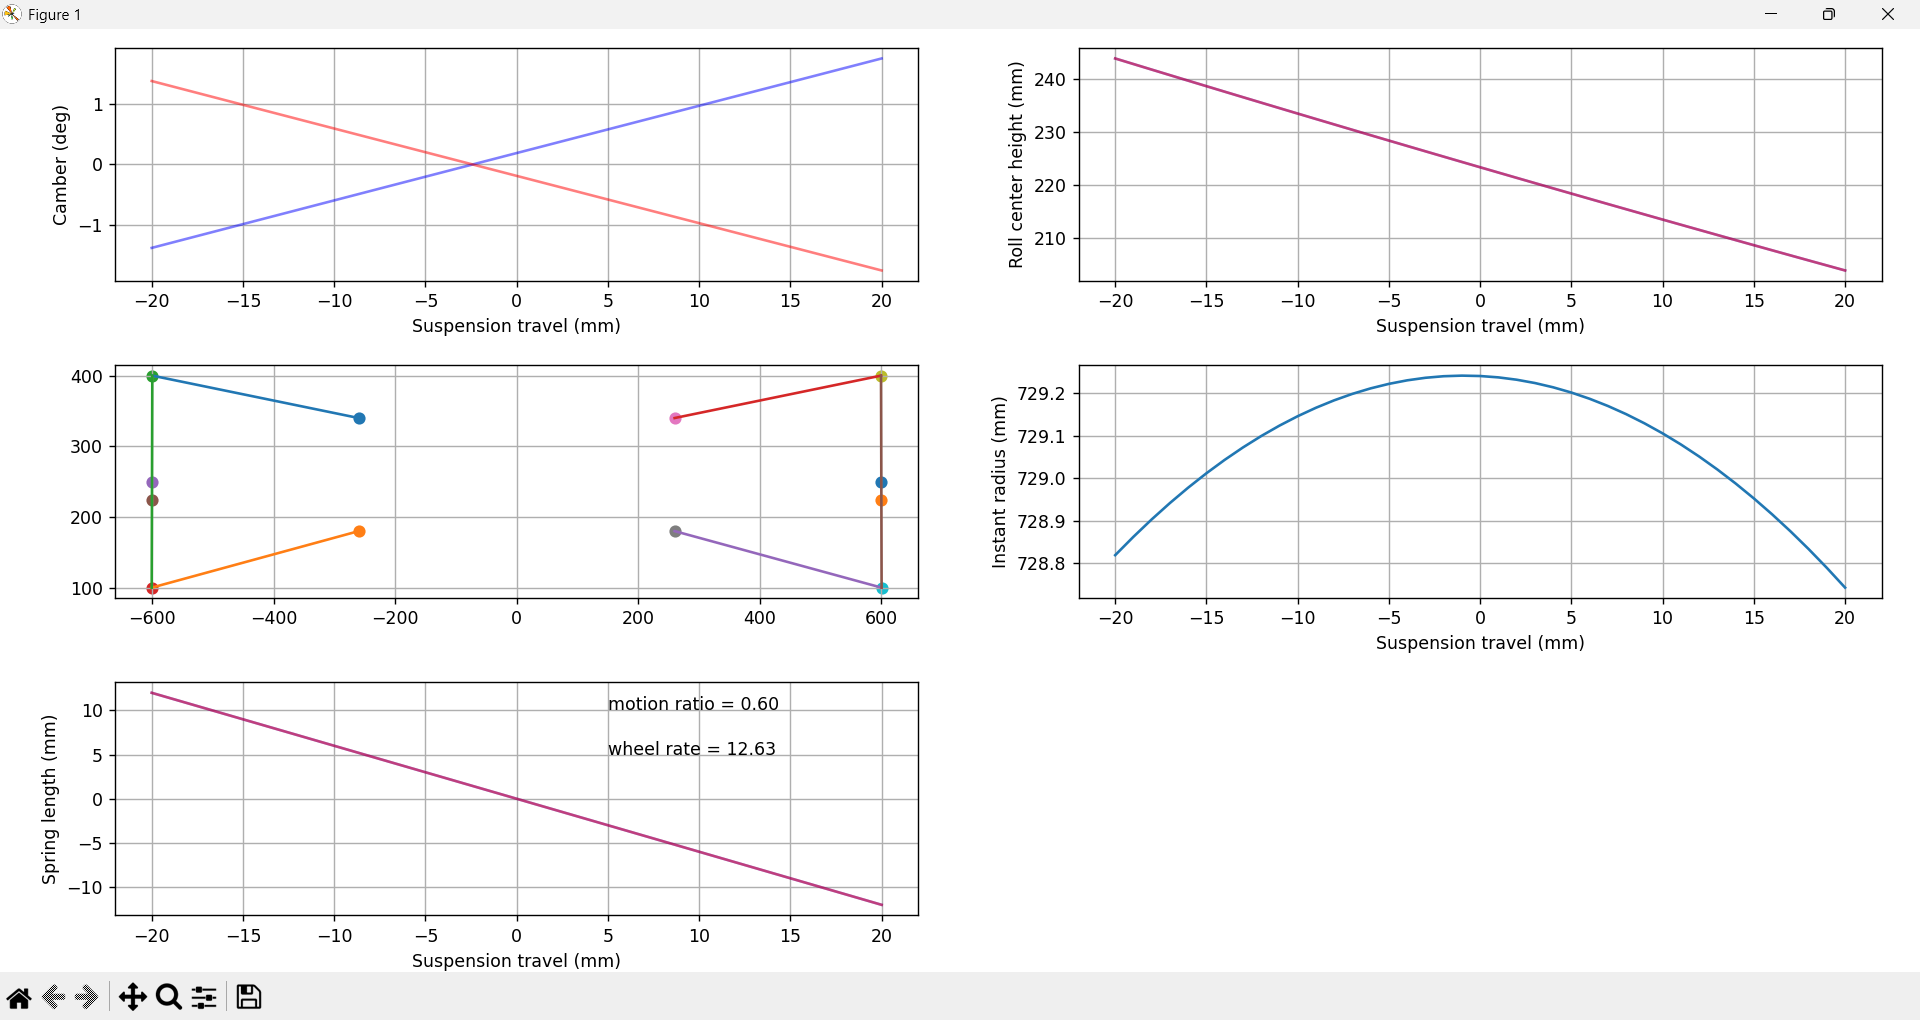
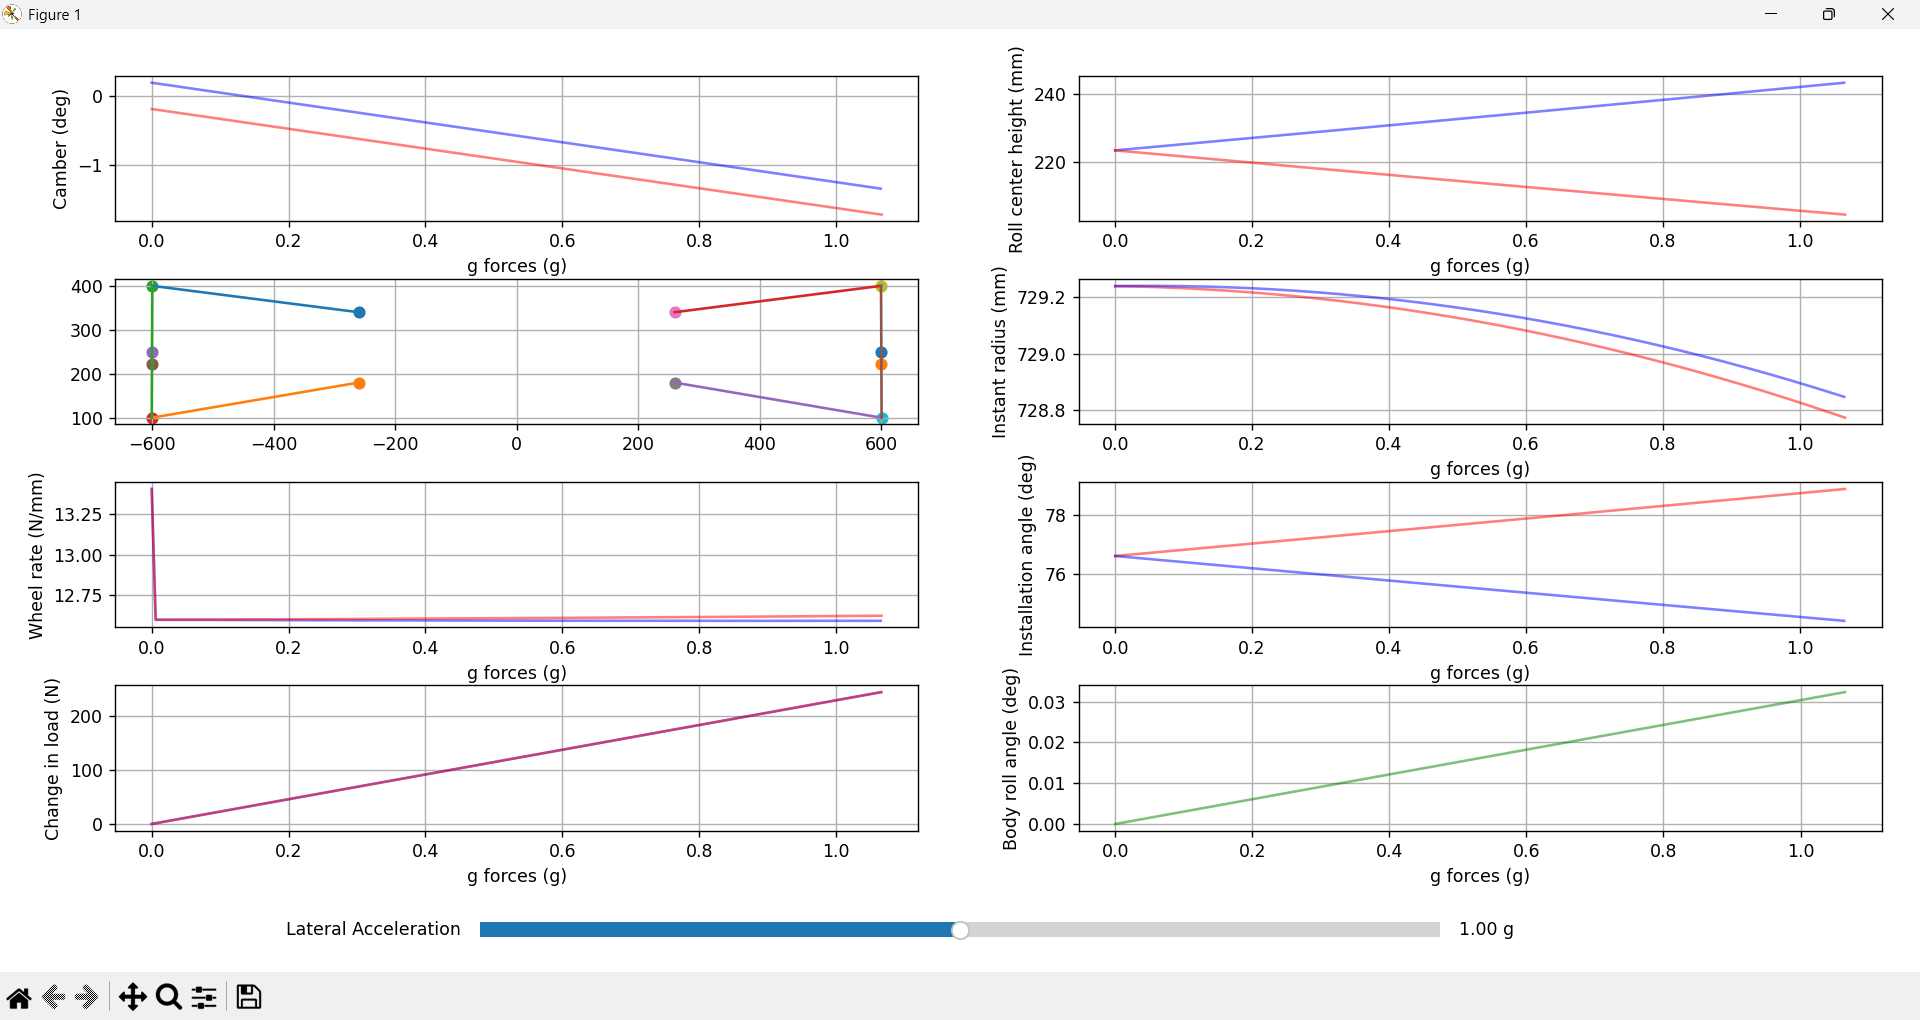
Added a slider for lateral acceleration values to facilitate real time parameter updates

diff --git a/main.py b/main.py
@@ -6,6 +6,7 @@ from pyparsing import results
 from scipy.optimize import least_squares
 import math
 from dataclasses import dataclass, field
+from matplotlib.widgets import Slider
 
 @dataclass
 class car:
@@ -20,12 +21,13 @@ class car:
     length_lower: float
     length_upright: float
     spring_stiffness: float
-    sway_bar_stiffness: float
     mount_fraction: float
     shock_mount_upper_R: tuple[float, float]
     shock_mount_upper_L: tuple[float, float] = field(init=False)
     upper_inner_L: tuple[float, float] = field(init=False)
     lower_inner_L: tuple[float, float] = field(init=False)
+    bump_stop_gap: float
+    bump_stop_stiffness: float
 
     #all units otherwise mentioned are in mm
     def __post_init__(self):
@@ -132,11 +134,13 @@ def simulate(car, a):
     instant_loads_R = []
     instant_loads_L = []
 
-    cornering_acceleration = a * 9.18
+    cornering_acceleration = a * 9.81
     lateral_force = car.front_sprung_mass * cornering_acceleration
     load_transferred = (lateral_force * car.CG_height)/car.track_width
     print(load_transferred)
 
+    current_stiffness_L = car.spring_stiffness
+    current_stiffness_R = car.spring_stiffness
     target_load = load_transferred
     current_load_R = 0
     current_load_L = 0
@@ -190,6 +194,10 @@ def simulate(car, a):
             motion_ratio = (distance(car.shock_mount_upper_R, static_shock_mount_R)/distance(car.shock_mount_upper_R, lower_outer_R))*np.sin(installation_angle)
         else:
             motion_ratio = (distance(car.shock_mount_upper_R, shock_mount_lower_R) - static_spring_R)/dy_R
+
+        shock_compression =  static_spring_R - distance(car.shock_mount_upper_R, shock_mount_lower_R)
+        if shock_compression > car.bump_stop_gap:
+            current_stiffness_R += car.bump_stop_stiffness
 
         wheel_rate = car.spring_stiffness * (motion_ratio**2)
         wheel_rates_R.append(wheel_rate)
@@ -247,6 +255,13 @@ def simulate(car, a):
         else:
             motion_ratio = (distance(car.shock_mount_upper_L, shock_mount_lower_L) - static_spring_L) / dy_L
 
+        shock_compression =  static_spring_L - distance(car.shock_mount_upper_L, shock_mount_lower_L)
+        if shock_compression > car.bump_stop_gap:
+            print("changed L")
+            current_stiffness_L += car.bump_stop_stiffness
+        elif current_stiffness_L > car.spring_stiffness:
+            current_stiffness_L = car.spring_stiffness
+
         wheel_rate = car.spring_stiffness * (motion_ratio ** 2)
         wheel_rates_L.append(wheel_rate)
         instant_loads_L.append(current_load_L)
@@ -277,108 +292,122 @@ def main():
         length_upright=300,
 
         spring_stiffness=35,
-        sway_bar_stiffness=15,
         mount_fraction=0.6,
-        shock_mount_upper_R=(464, 282)
+        shock_mount_upper_R=(464, 282),
+        bump_stop_gap = 20,
+        bump_stop_stiffness = 100
     )
-    results_R, results_L, statics, instant_radii, spring_lengths, installation_angles, wheel_rates, instant_loads, roll_angles, gforces = simulate(mycar, 1.0)
-    gforces_L, gforces_R = gforces
-    instant_loads_L, instant_loads_R = instant_loads
-    installation_angles_L, installation_angles_R = installation_angles
-    instant_radii_L, instant_radii_R = instant_radii
-    spring_lengths_L, spring_lengths_R = spring_lengths
-    dy_vals_R, camber_vals_R, rc_vals_R, sol_R = results_R
-    dy_vals_L, camber_vals_L, rc_vals_L, sol_L = results_L
-    static_L, static_R, static_rc_L, static_rc_R, static_spring_L, static_spring_R = statics
-    wheel_rates_L, wheel_rates_R = wheel_rates
-
-    print(len(dy_vals_R), len(dy_vals_L), dy_vals_R[-1], dy_vals_L[-1], dy_vals_R[0], dy_vals_L[0])
-    print(len(wheel_rates_R), len(wheel_rates_L), wheel_rates_R[-1], wheel_rates_L[-1], wheel_rates_R[0], wheel_rates_L[0])
-    print(instant_loads_L[-1], instant_loads_R[-1])
 
 
-    # Camber Curve
-    plt.subplot(4, 2, 1)
-    plt.plot(gforces_L, camber_vals_L, color="b", alpha = 0.5)
-    plt.plot(gforces_R, camber_vals_R, color="r", alpha = 0.5)
-    plt.text(10, 0, f"camber gain = {camber_vals_R[-1]/dy_vals_R[-1]:.2f}")
-    plt.xlabel("g forces (g)")
-    plt.ylabel("Camber (deg)")
-    plt.grid(True)
+    fig = plt.figure(figsize=(12, 8))
+    plt.subplots_adjust(left=0.06, bottom=0.15, right=0.98, top=0.95, wspace=0.2, hspace=0.4)
+
+    ax_slider = plt.axes([0.25, 0.03, 0.5, 0.03])
+    g_slider = Slider(ax_slider, 'Lateral Acceleration', 0, 2, valinit=1.0, valfmt='%1.2f g')
+
+    def update_dashboard(val):
+        for i in range(1, 9):
+            plt.subplot(4, 2, i)
+            plt.cla()
+
+        a = g_slider.val
+
+        results_R, results_L, statics, instant_radii, spring_lengths, installation_angles, wheel_rates, instant_loads, roll_angles, gforces = simulate(
+            mycar, a)
+        gforces_L, gforces_R = gforces
+        instant_loads_L, instant_loads_R = instant_loads
+        installation_angles_L, installation_angles_R = installation_angles
+        instant_radii_L, instant_radii_R = instant_radii
+        spring_lengths_L, spring_lengths_R = spring_lengths
+        dy_vals_R, camber_vals_R, rc_vals_R, sol_R = results_R
+        dy_vals_L, camber_vals_L, rc_vals_L, sol_L = results_L
+        static_L, static_R, static_rc_L, static_rc_R, static_spring_L, static_spring_R = statics
+        wheel_rates_L, wheel_rates_R = wheel_rates
+
+        # Camber Curve
+        plt.subplot(4, 2, 1)
+        plt.plot(gforces_L, camber_vals_L, color="b", alpha = 0.5)
+        plt.plot(gforces_R, camber_vals_R, color="r", alpha = 0.5)
+        plt.text(10, 0, f"camber gain = {camber_vals_R[-1]/dy_vals_R[-1]:.2f}")
+        plt.xlabel("g forces (g)")
+        plt.ylabel("Camber (deg)")
+        plt.grid(True)
 
 
-    # Roll Center Curve
-    plt.subplot(4, 2, 2)
-    plt.plot(gforces_L, rc_vals_L, color="b", alpha = 0.5)
-    plt.plot(gforces_R, rc_vals_R, color="r", alpha = 0.5)
-    plt.xlabel("g forces (g)")
-    plt.ylabel("Roll center height (mm)")
-    plt.grid(True)
+        # Roll Center Curve
+        plt.subplot(4, 2, 2)
+        plt.plot(gforces_L, rc_vals_L, color="b", alpha = 0.5)
+        plt.plot(gforces_R, rc_vals_R, color="r", alpha = 0.5)
+        plt.xlabel("g forces (g)")
+        plt.ylabel("Roll center height (mm)")
+        plt.grid(True)
 
 
-    #Visual representation of final suspension state
-    plt.subplot(4, 2, 3)
-    # Left side
-    plt.scatter(mycar.upper_inner_L[0], mycar.upper_inner_L[1], label="upper inner")
-    plt.scatter(mycar.lower_inner_L[0], mycar.lower_inner_L[1], label="lower inner")
-    plt.scatter(static_L[0], static_L[1], label="upper outer")
-    plt.scatter(static_L[2], static_L[3], label="lower outer")
-    plt.scatter((static_L[0] + static_L[2]) / 2, (static_L[1] + static_L[3]) / 2, label="wheel center")
-    plt.scatter(-mycar.track_width/2, static_rc_L, label="Roll Center")
-    plt.plot((mycar.upper_inner_L[0], static_L[0]), (mycar.upper_inner_L[1], static_L[1]), label="upper arm")
-    plt.plot((mycar.lower_inner_L[0], static_L[2]), (mycar.lower_inner_L[1], static_L[3]), label="lower arm")
-    plt.plot((static_L[0], static_L[2]), (static_L[1], static_L[3]), label="upright")
-    # Right side
-    plt.scatter(mycar.upper_inner_R[0], mycar.upper_inner_R[1], label="upper inner")
-    plt.scatter(mycar.lower_inner_R[0], mycar.lower_inner_R[1], label="lower inner")
-    plt.scatter(static_R[0], static_R[1], label="upper outer")
-    plt.scatter(static_R[2], static_R[3], label="lower outer")
-    plt.scatter((static_R[0] + static_R[2]) / 2, (static_R[1] + static_R[3]) / 2, label="wheel center")
-    plt.scatter(mycar.track_width / 2, static_rc_R, label="Roll Center")
-    plt.plot((mycar.upper_inner_R[0], static_R[0]), (mycar.upper_inner_R[1], static_R[1]), label="upper arm")
-    plt.plot((mycar.lower_inner_R[0], static_R[2]), (mycar.lower_inner_R[1], static_R[3]), label="lower arm")
-    plt.plot((static_R[0], static_R[2]), (static_R[1], static_R[3]), label="upright")
-    plt.grid(True)
+        #Visual representation of final suspension state
+        plt.subplot(4, 2, 3)
+        # Left side
+        plt.scatter(mycar.upper_inner_L[0], mycar.upper_inner_L[1], label="upper inner")
+        plt.scatter(mycar.lower_inner_L[0], mycar.lower_inner_L[1], label="lower inner")
+        plt.scatter(static_L[0], static_L[1], label="upper outer")
+        plt.scatter(static_L[2], static_L[3], label="lower outer")
+        plt.scatter((static_L[0] + static_L[2]) / 2, (static_L[1] + static_L[3]) / 2, label="wheel center")
+        plt.scatter(-mycar.track_width/2, static_rc_L, label="Roll Center")
+        plt.plot((mycar.upper_inner_L[0], static_L[0]), (mycar.upper_inner_L[1], static_L[1]), label="upper arm")
+        plt.plot((mycar.lower_inner_L[0], static_L[2]), (mycar.lower_inner_L[1], static_L[3]), label="lower arm")
+        plt.plot((static_L[0], static_L[2]), (static_L[1], static_L[3]), label="upright")
+        # Right side
+        plt.scatter(mycar.upper_inner_R[0], mycar.upper_inner_R[1], label="upper inner")
+        plt.scatter(mycar.lower_inner_R[0], mycar.lower_inner_R[1], label="lower inner")
+        plt.scatter(static_R[0], static_R[1], label="upper outer")
+        plt.scatter(static_R[2], static_R[3], label="lower outer")
+        plt.scatter((static_R[0] + static_R[2]) / 2, (static_R[1] + static_R[3]) / 2, label="wheel center")
+        plt.scatter(mycar.track_width / 2, static_rc_R, label="Roll Center")
+        plt.plot((mycar.upper_inner_R[0], static_R[0]), (mycar.upper_inner_R[1], static_R[1]), label="upper arm")
+        plt.plot((mycar.lower_inner_R[0], static_R[2]), (mycar.lower_inner_R[1], static_R[3]), label="lower arm")
+        plt.plot((static_R[0], static_R[2]), (static_R[1], static_R[3]), label="upright")
+        plt.grid(True)
 
-    plt.subplot(4, 2, 4)
-    plt.plot(gforces_R, instant_radii_R, color="r", alpha = 0.5)
-    plt.plot(gforces_L, instant_radii_L, color="b", alpha = 0.5)
-    plt.xlabel("g forces (g)")
-    plt.ylabel("Instant radius (mm)")
-    plt.grid(True)
+        plt.subplot(4, 2, 4)
+        plt.plot(gforces_R, instant_radii_R, color="r", alpha = 0.5)
+        plt.plot(gforces_L, instant_radii_L, color="b", alpha = 0.5)
+        plt.xlabel("g forces (g)")
+        plt.ylabel("Instant radius (mm)")
+        plt.grid(True)
 
-    plt.subplot(4, 2, 5)
-    plt.plot(gforces_L, wheel_rates_L, color="b", alpha = 0.5)
-    plt.plot(gforces_R, wheel_rates_R, color="r", alpha = 0.5)
-    plt.xlabel("g forces (g)")
-    plt.ylabel("Wheel rate (N/mm)")
-    plt.grid(True)
+        plt.subplot(4, 2, 5)
+        plt.plot(gforces_L, wheel_rates_L, color="b", alpha = 0.5)
+        plt.plot(gforces_R, wheel_rates_R, color="r", alpha = 0.5)
+        plt.xlabel("g forces (g)")
+        plt.ylabel("Wheel rate (N/mm)")
+        plt.grid(True)
 
-    plt.subplot(4, 2, 6)
-    plt.plot(gforces_R, installation_angles_R, color="r", alpha = 0.5)
-    plt.plot(gforces_L, installation_angles_L, color="b", alpha = 0.5)
-    plt.xlabel("g forces (g)")
-    plt.ylabel("Installation angle (deg)")
-    plt.grid(True)
+        plt.subplot(4, 2, 6)
+        plt.plot(gforces_R, installation_angles_R, color="r", alpha = 0.5)
+        plt.plot(gforces_L, installation_angles_L, color="b", alpha = 0.5)
+        plt.xlabel("g forces (g)")
+        plt.ylabel("Installation angle (deg)")
+        plt.grid(True)
 
-    plt.subplot(4, 2, 7)
-    plt.plot(gforces_L, instant_loads_L, color="b", alpha = 0.5)
-    plt.plot(gforces_R, instant_loads_R, color="r", alpha = 0.5)
-    plt.xlabel("g forces (g)")
-    plt.ylabel("Change in load (N)")
-    plt.grid(True)
+        plt.subplot(4, 2, 7)
+        plt.plot(gforces_L, instant_loads_L, color="b", alpha = 0.5)
+        plt.plot(gforces_R, instant_loads_R, color="r", alpha = 0.5)
+        plt.xlabel("g forces (g)")
+        plt.ylabel("Change in load (N)")
+        plt.grid(True)
 
-    plt.subplot(4, 2, 8)
-    if len(gforces_R) < len(gforces_L):
-        plt.plot(gforces_R, roll_angles, color="g", alpha = 0.5)
-    else:
-        plt.plot(gforces_L, roll_angles, color="g", alpha = 0.5)
-    plt.xlabel("g forces (g)")
-    plt.ylabel("Body roll angle (deg)")
-    plt.grid(True)
+        plt.subplot(4, 2, 8)
+        if len(gforces_R) < len(gforces_L):
+            plt.plot(gforces_R, roll_angles, color="g", alpha = 0.5)
+        else:
+            plt.plot(gforces_L, roll_angles, color="g", alpha = 0.5)
+        plt.xlabel("g forces (g)")
+        plt.ylabel("Body roll angle (deg)")
+        plt.grid(True)
 
-    plt.subplots_adjust(left=0.06, bottom=0.06, right=0.98, top=0.98, wspace=0.2, hspace=0.36)
-    # plt.tight_layout()
+        fig.canvas.draw_idle()
+
+    g_slider.on_changed(update_dashboard)
+    update_dashboard(1.0)
     plt.show()
 
 main()
